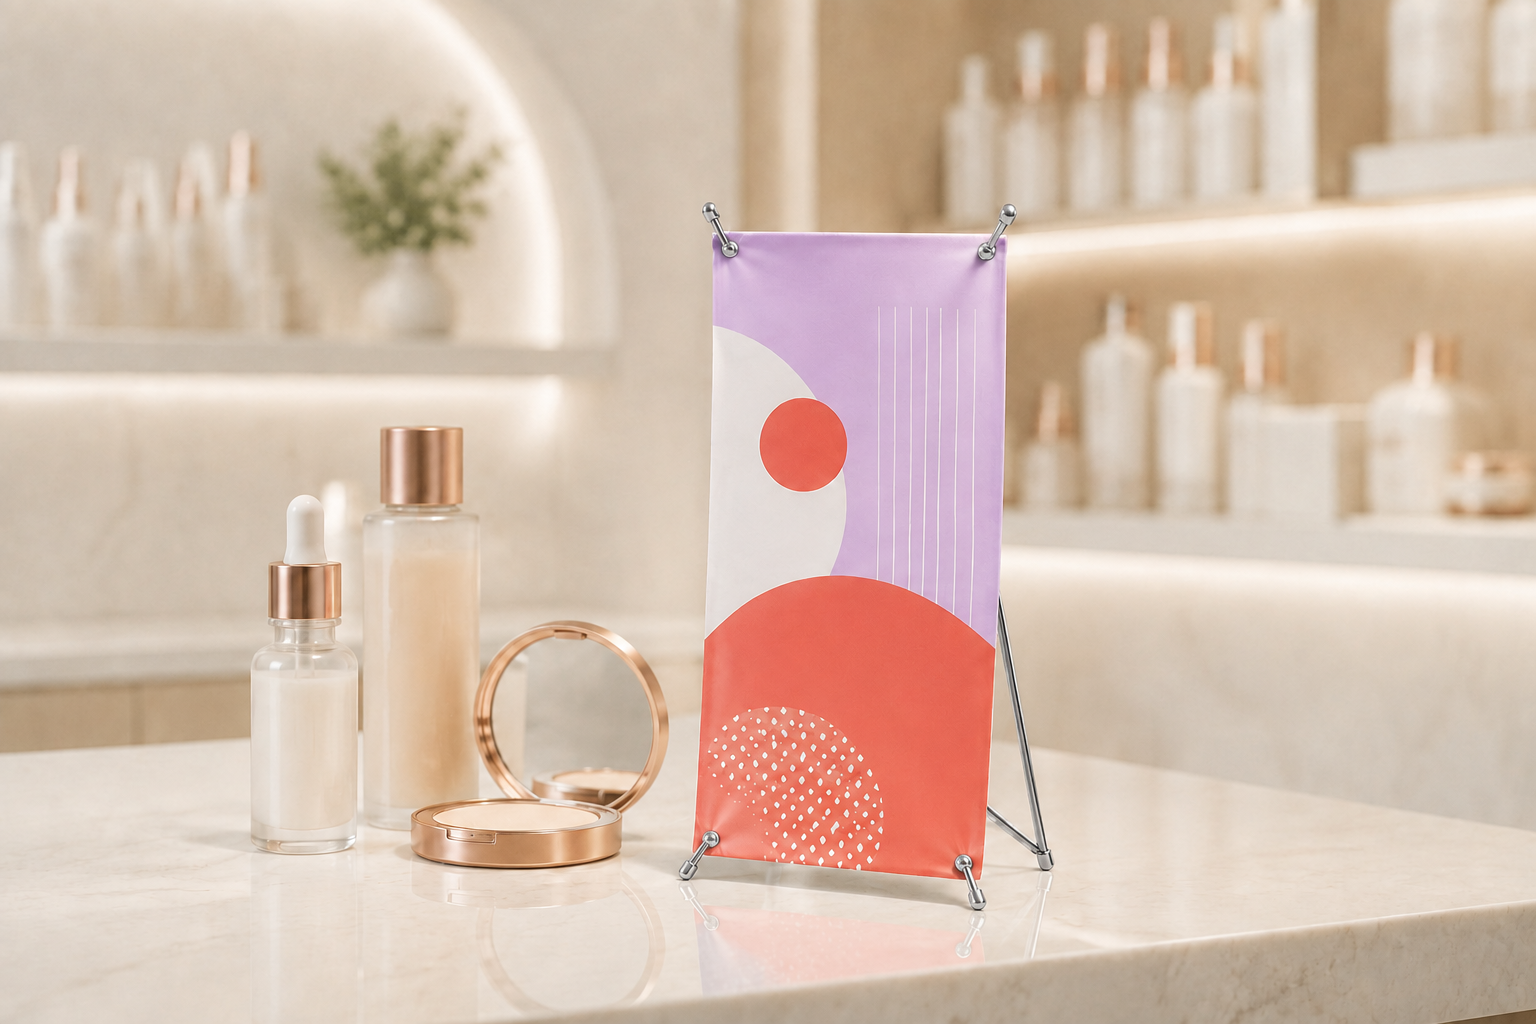
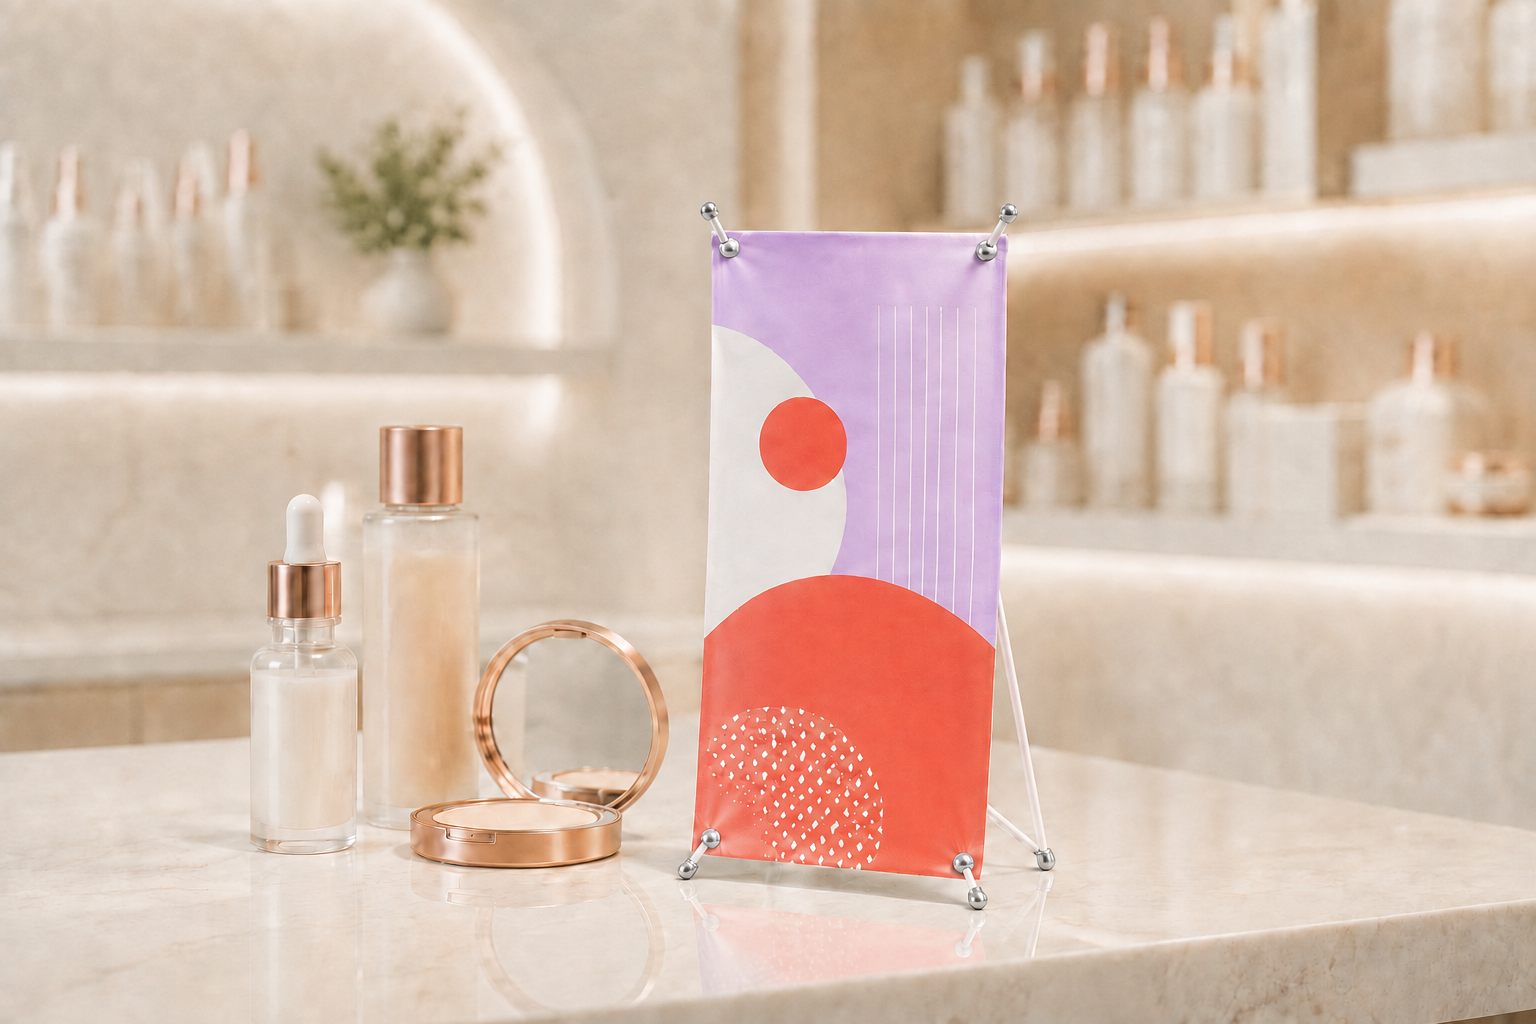
철제배너 PY 상세페이지 신규 제작

diff --git a/detail/minibanner-new.html b/detail/minibanner-new.html
@@ -1,5 +1,5 @@
 <!doctype html>
-<!-- minibanner-new v2: chrome stand -->
+<!-- minibanner-new v4: white poles with chrome end pieces -->
 <html lang="ko">
 <head>
   <meta charset="utf-8">
@@ -11,7 +11,7 @@
     <div style="max-width:1200px; margin:0 auto;">
 
       <section style="background:#eef8fa;">
-        <img src="https://tara-shopping.vercel.app/images/minibanner-new-hero-20260812.png" alt="실버 크롬 거치대에 설치된 세 가지 미니배너" style="display:block; width:100%; max-width:100%; height:auto;">
+        <img src="https://tara-shopping.vercel.app/images/minibanner-new-hero-20260812.png" alt="백색 폴대와 크롬 마감 부품으로 구성된 미니배너" style="display:block; width:100%; max-width:100%; height:auto;">
         <div style="padding:52px 6% 58px; background:#0d2d64; color:#ffffff; text-align:center;">
           <p style="margin:0 0 12px; color:#8fb7ff; font-size:15px; font-weight:800; letter-spacing:0.16em;">TABLETOP MINI BANNER</p>
           <h1 style="margin:0; font-size:clamp(34px,5vw,62px); line-height:1.14; font-weight:900; letter-spacing:-0.04em;">작은 공간에 세우는 선명한 메시지</h1>
@@ -25,7 +25,7 @@
         <div style="display:flex; flex-wrap:wrap; gap:16px; margin-top:38px; text-align:left;">
           <div style="flex:1 1 220px; padding:28px; border:1px solid #dfe6f1; border-radius:18px; box-sizing:border-box;"><span style="color:#326ed8; font-size:13px; font-weight:900;">01</span><h3 style="margin:12px 0 8px; font-size:22px;">탁상용 사이즈</h3><p style="margin:0; color:#667085; font-size:16px; line-height:1.7;">카운터와 테이블을 방해하지 않으면서 필요한 정보를 가까이 전달합니다.</p></div>
           <div style="flex:1 1 220px; padding:28px; border:1px solid #dfe6f1; border-radius:18px; box-sizing:border-box;"><span style="color:#326ed8; font-size:13px; font-weight:900;">02</span><h3 style="margin:12px 0 8px; font-size:22px;">선명한 PET 출력</h3><p style="margin:0; color:#667085; font-size:16px; line-height:1.7;">탄탄한 PET 소재로 컬러와 작은 문구를 또렷하게 표현합니다.</p></div>
-          <div style="flex:1 1 220px; padding:28px; border:1px solid #dfe6f1; border-radius:18px; box-sizing:border-box;"><span style="color:#326ed8; font-size:13px; font-weight:900;">03</span><h3 style="margin:12px 0 8px; font-size:22px;">간편한 조립</h3><p style="margin:0; color:#667085; font-size:16px; line-height:1.7;">크롬 거치대를 펼치고 출력물 네 모서리를 걸면 설치가 완료됩니다.</p></div>
+          <div style="flex:1 1 220px; padding:28px; border:1px solid #dfe6f1; border-radius:18px; box-sizing:border-box;"><span style="color:#326ed8; font-size:13px; font-weight:900;">03</span><h3 style="margin:12px 0 8px; font-size:22px;">간편한 조립</h3><p style="margin:0; color:#667085; font-size:16px; line-height:1.7;">백색 거치대를 펼치고 출력물 네 모서리를 걸면 설치가 완료됩니다.</p></div>
           <div style="flex:1 1 220px; padding:28px; border:1px solid #dfe6f1; border-radius:18px; box-sizing:border-box;"><span style="color:#326ed8; font-size:13px; font-weight:900;">04</span><h3 style="margin:12px 0 8px; font-size:22px;">쉬운 이동과 보관</h3><p style="margin:0; color:#667085; font-size:16px; line-height:1.7;">가벼운 구조로 행사와 시즌에 맞춰 위치를 손쉽게 바꿀 수 있습니다.</p></div>
         </div>
       </section>
@@ -41,18 +41,18 @@
       <section style="padding:82px 5%; text-align:center;">
         <p style="margin:0 0 12px; color:#326ed8; font-size:14px; font-weight:800; letter-spacing:0.16em;">SIZE GUIDE</p>
         <h2 style="margin:0 0 38px; font-size:clamp(28px,4vw,44px); letter-spacing:-0.04em;">공간에 맞는 크기를 선택하세요</h2>
-        <img src="https://tara-shopping.vercel.app/images/minibanner-new-size-guide-20260812.svg" alt="120×270mm와 150×300mm 미니배너 사이즈 비교" style="display:block; width:100%; max-width:100%; height:auto; border-radius:24px;">
+        <img src="https://tara-shopping.vercel.app/images/minibanner-new-size-guide-20260812.svg" alt="150×300mm와 180×420mm 미니배너 사이즈 비교" style="display:block; width:100%; max-width:100%; height:auto; border-radius:24px;">
         <div style="display:flex; flex-wrap:wrap; gap:18px; margin-top:26px; text-align:left;">
-          <div style="flex:1 1 360px; padding:26px 30px; border-left:5px solid #8fb7ff; background:#f5f8fd;"><strong style="display:block; margin-bottom:7px; font-size:20px;">120×270mm</strong><span style="color:#667085; line-height:1.7;">좁은 카운터, 테이블 번호, 간단한 이벤트 안내에 적합합니다.</span></div>
-          <div style="flex:1 1 360px; padding:26px 30px; border-left:5px solid #326ed8; background:#f5f8fd;"><strong style="display:block; margin-bottom:7px; font-size:20px;">150×300mm</strong><span style="color:#667085; line-height:1.7;">메뉴와 상품 설명처럼 정보량이 많거나 주목도가 필요한 공간에 적합합니다.</span></div>
+          <div style="flex:1 1 360px; padding:26px 30px; border-left:5px solid #8fb7ff; background:#f5f8fd;"><strong style="display:block; margin-bottom:7px; font-size:20px;">150×300mm</strong><span style="color:#667085; line-height:1.7;">좁은 카운터, 테이블 번호, 간단한 이벤트 안내에 적합합니다.</span></div>
+          <div style="flex:1 1 360px; padding:26px 30px; border-left:5px solid #326ed8; background:#f5f8fd;"><strong style="display:block; margin-bottom:7px; font-size:20px;">180×420mm</strong><span style="color:#667085; line-height:1.7;">메뉴와 상품 설명처럼 정보량이 많거나 주목도가 필요한 공간에 적합합니다.</span></div>
         </div>
       </section>
 
       <section style="padding:78px 5%; background:#102a54; color:#ffffff;">
-        <div style="text-align:center;"><p style="margin:0 0 12px; color:#8fb7ff; font-size:14px; font-weight:800; letter-spacing:0.16em;">MATERIAL &amp; SET</p><h2 style="margin:0; font-size:clamp(28px,4vw,44px); letter-spacing:-0.04em;">출력물과 거치대를 한 세트로</h2><p style="max-width:720px; margin:18px auto 36px; color:#cbd9ee; font-size:17px; line-height:1.75;">선명한 PET 출력물과 슬림한 실버 크롬 거치대로 구성됩니다.</p></div>
+        <div style="text-align:center;"><p style="margin:0 0 12px; color:#8fb7ff; font-size:14px; font-weight:800; letter-spacing:0.16em;">MATERIAL &amp; SET</p><h2 style="margin:0; font-size:clamp(28px,4vw,44px); letter-spacing:-0.04em;">출력물과 거치대를 한 세트로</h2><p style="max-width:720px; margin:18px auto 36px; color:#cbd9ee; font-size:17px; line-height:1.75;">선명한 PET 출력물과 가벼운 백색 거치대로 구성됩니다.</p></div>
         <div style="display:flex; flex-wrap:wrap; gap:18px;">
           <div style="flex:1 1 290px; padding:32px; border-radius:20px; background:#173765;"><strong style="display:block; color:#8fb7ff; font-size:13px;">PRINT</strong><h3 style="margin:10px 0 10px; font-size:23px;">PET 출력물 1장</h3><p style="margin:0; color:#d4e0f2; line-height:1.75;">얇고 탄탄하며 컬러 표현이 선명해 실내 탁상용 안내물에 적합합니다.</p></div>
-          <div style="flex:1 1 290px; padding:32px; border-radius:20px; background:#173765;"><strong style="display:block; color:#8fb7ff; font-size:13px;">STAND</strong><h3 style="margin:10px 0 10px; font-size:23px;">실버 크롬 거치대 1개</h3><p style="margin:0; color:#d4e0f2; line-height:1.75;">가느다란 크롬 프레임과 후면 지지대로 출력물을 안정적으로 세워줍니다.</p></div>
+          <div style="flex:1 1 290px; padding:32px; border-radius:20px; background:#173765;"><strong style="display:block; color:#8fb7ff; font-size:13px;">STAND</strong><h3 style="margin:10px 0 10px; font-size:23px;">백색 거치대 1개</h3><p style="margin:0; color:#d4e0f2; line-height:1.75;">백색 폴대와 후면 지지대, 크롬 마감 부품으로 출력물을 안정적으로 세워줍니다.</p></div>
           <div style="flex:1 1 290px; padding:32px; border-radius:20px; background:#173765;"><strong style="display:block; color:#8fb7ff; font-size:13px;">FINISH</strong><h3 style="margin:10px 0 10px; font-size:23px;">사방 고리 연결</h3><p style="margin:0; color:#d4e0f2; line-height:1.75;">출력물 네 모서리를 거치대 고리에 연결해 팽팽하게 고정합니다.</p></div>
         </div>
       </section>
@@ -60,7 +60,7 @@
       <section style="padding:82px 5%;">
         <div style="text-align:center;"><p style="margin:0 0 12px; color:#326ed8; font-size:14px; font-weight:800; letter-spacing:0.16em;">EASY INSTALL</p><h2 style="margin:0 0 38px; font-size:clamp(28px,4vw,44px); letter-spacing:-0.04em;">간단하게 펼치고 걸어주세요</h2></div>
         <div style="display:flex; flex-wrap:wrap; gap:16px;">
-          <div style="flex:1 1 210px; padding:28px; border:1px solid #dfe6f1; border-radius:18px;"><strong style="color:#326ed8; font-size:13px;">STEP 1</strong><h3 style="margin:10px 0 8px; font-size:20px;">거치대 펼치기</h3><p style="margin:0; color:#667085; line-height:1.7;">접힌 크롬 거치대와 뒤쪽 지지대를 펼칩니다.</p></div>
+          <div style="flex:1 1 210px; padding:28px; border:1px solid #dfe6f1; border-radius:18px;"><strong style="color:#326ed8; font-size:13px;">STEP 1</strong><h3 style="margin:10px 0 8px; font-size:20px;">거치대 펼치기</h3><p style="margin:0; color:#667085; line-height:1.7;">접힌 백색 거치대와 뒤쪽 지지대를 펼칩니다.</p></div>
           <div style="flex:1 1 210px; padding:28px; border:1px solid #dfe6f1; border-radius:18px;"><strong style="color:#326ed8; font-size:13px;">STEP 2</strong><h3 style="margin:10px 0 8px; font-size:20px;">하단 연결</h3><p style="margin:0; color:#667085; line-height:1.7;">출력물 아래쪽 두 모서리를 하단 고리에 연결합니다.</p></div>
           <div style="flex:1 1 210px; padding:28px; border:1px solid #dfe6f1; border-radius:18px;"><strong style="color:#326ed8; font-size:13px;">STEP 3</strong><h3 style="margin:10px 0 8px; font-size:20px;">상단 고정</h3><p style="margin:0; color:#667085; line-height:1.7;">출력물을 살짝 당겨 위쪽 두 모서리를 고정합니다.</p></div>
           <div style="flex:1 1 210px; padding:28px; border:1px solid #dfe6f1; border-radius:18px;"><strong style="color:#326ed8; font-size:13px;">STEP 4</strong><h3 style="margin:10px 0 8px; font-size:20px;">균형 확인</h3><p style="margin:0; color:#667085; line-height:1.7;">출력물이 비뚤어지지 않았는지 확인하고 세워주세요.</p></div>
@@ -71,7 +71,7 @@
         <p style="margin:0 0 12px; color:#326ed8; font-size:14px; font-weight:800; letter-spacing:0.16em; text-align:center;">FILE GUIDE</p>
         <h2 style="margin:0 0 38px; font-size:clamp(28px,4vw,44px); letter-spacing:-0.04em; text-align:center;">작업 파일을 확인해 주세요</h2>
         <div style="display:flex; flex-wrap:wrap; gap:18px;">
-          <div style="flex:1 1 280px; padding:30px; background:#ffffff; border-radius:18px;"><h3 style="margin:0 0 12px; font-size:21px;">완성 사이즈 작업</h3><p style="margin:0; color:#667085; line-height:1.75;">선택한 120×270mm 또는 150×300mm 실제 사이즈로 작업해 주세요.</p></div>
+          <div style="flex:1 1 280px; padding:30px; background:#ffffff; border-radius:18px;"><h3 style="margin:0 0 12px; font-size:21px;">완성 사이즈 작업</h3><p style="margin:0; color:#667085; line-height:1.75;">선택한 150×300mm 또는 180×420mm 실제 사이즈로 작업해 주세요.</p></div>
           <div style="flex:1 1 280px; padding:30px; background:#ffffff; border-radius:18px;"><h3 style="margin:0 0 12px; font-size:21px;">중요 정보 안쪽 배치</h3><p style="margin:0; color:#667085; line-height:1.75;">문구와 로고는 재단선과 모서리 고리 위치에서 충분히 안쪽에 배치해 주세요.</p></div>
           <div style="flex:1 1 280px; padding:30px; background:#ffffff; border-radius:18px;"><h3 style="margin:0 0 12px; font-size:21px;">인쇄 파일 점검</h3><p style="margin:0; color:#667085; line-height:1.75;">이미지 해상도, 글자 윤곽선, 링크 누락과 투명도 효과를 최종 확인해 주세요.</p></div>
         </div>
